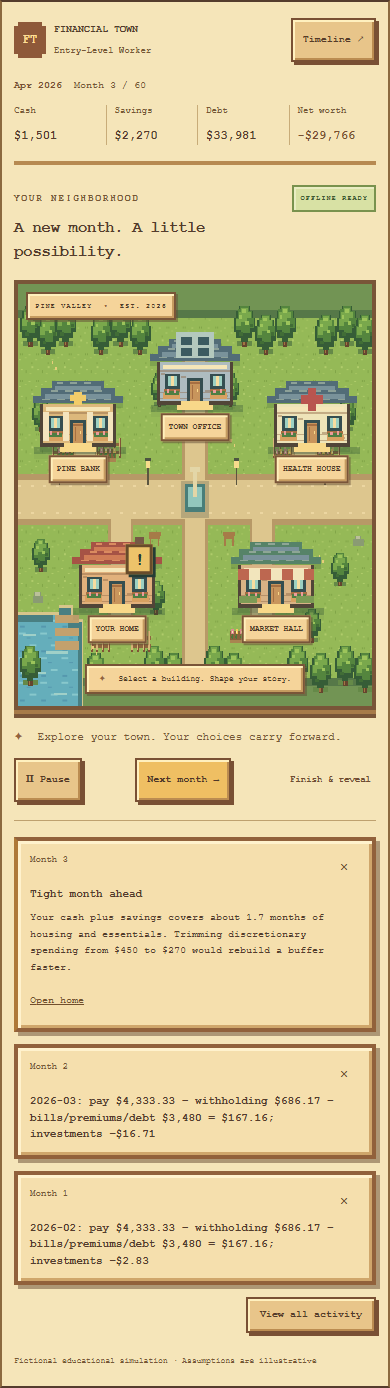
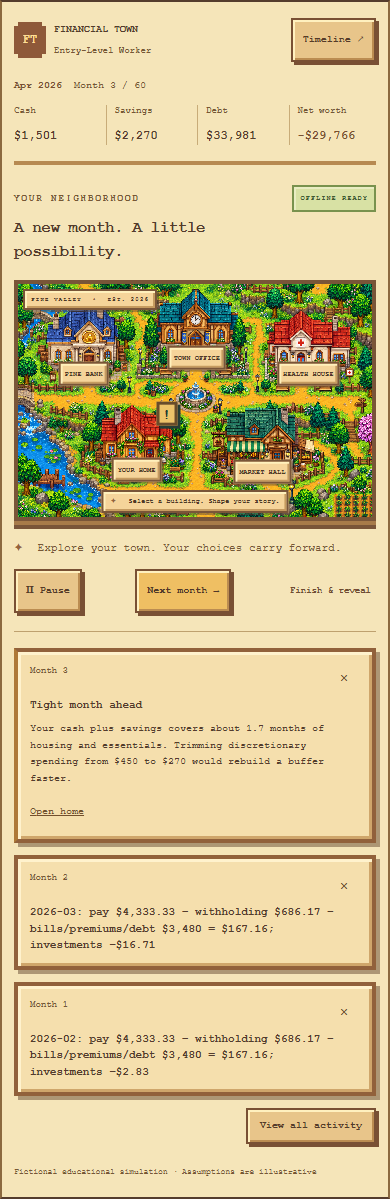
Add detailed reference-inspired pixel-art town backdrop

diff --git a/src/components/town/TownScene.tsx b/src/components/town/TownScene.tsx
@@ -1,67 +1,39 @@
-import type { BuildingId } from '../../types/domain'
+import type { BuildingId } from '../../types/domain'
 import { buildingIds, buildings } from './buildings'
 
-function Tree({ x, y, size = 1 }: { x: number; y: number; size?: number }) {
-  return <g transform={`translate(${x} ${y}) scale(${size})`}>
-    <path fill="#658948" d="M-17 13h34v6h-34z"/>
-    <path fill="#65452e" d="M-5-4H5v24H-5z"/><path fill="#a27742" d="M-3 0h3v18h-3z"/>
-    <path fill="#365d37" d="M-12-28h24v6h8v8h5V3h-7v7H7v4H-8v-4h-12V3h-5v-17h5v-8h8z"/>
-    <path fill="#54853e" d="M-10-28h20v6h8v8h4v12H12v6H-8v-4h-12v-14h4v-10h6z"/>
-    <path fill="#79a84c" d="M-8-26H7v5h7v7H5v5H-8v5h-11v-9h5v-8h6z"/>
-    <path fill="#9cc45b" d="M-6-24h10v4H-6zM-13-17h6v4h-6zM2-10h8v4H2z"/>
-    <path fill="#416d36" d="M-13 3h9v4h-9zM12-7h7v4h-7z"/>
-  </g>
-}
+export const TOWN_ART = '/assets/town-valley-v1.png'
 
-function FlowerBed({ x, y }: { x: number; y: number }) {
-  return <g transform={`translate(${x} ${y})`}>
-    <path fill="#89633c" d="M0 0h48v16H0z"/><path fill="#a98450" d="M0 13h48v5H0z"/>
-    {[5,17,29,41].map((left,i) => <g key={left}><path fill="#4d783a" d={`M${left} 2h3v10h-3zM${left-3} 7h3v3h-3z`}/><path fill={i%2 ? '#f7c65c' : '#df8a91'} d={`M${left-2} -2h7v7h-7z`}/><path fill="#ffedaa" d={`M${left} 0h3v3h-3z`}/></g>)}
-  </g>
-}
-
-function Fence({ x, y, length = 80 }: { x: number; y: number; length?: number }) {
-  return <g transform={`translate(${x} ${y})`}><path fill="#8d663e" d={`M0 1h${length}v5H0zM0 12h${length}v5H0z`}/>{Array.from({length:Math.floor(length/16)+1},(_,i)=><g key={i}><path fill="#805536" d={`M${i*16} -6h6v29h-6z`}/><path fill="#d8b778" d={`M${i*16} -6h4v26h-4z`}/></g>)}</g>
+// Both the map and the card portraits reference the same original raster artwork.
+// Crops use a normalized 1536 x 1024 coordinate space, not separate sprite assets.
+const portraits: Record<BuildingId, [number, number, number, number]> = {
+  bank: [115, 90, 335, 320],
+  office: [605, 20, 355, 330],
+  hospital: [1075, 110, 375, 320],
+  home: [350, 530, 340, 310],
+  market: [875, 535, 395, 320],
 }
 export function BuildingSprite({ building }: { building: BuildingId }) {
-  return <svg viewBox="0 0 120 100" aria-hidden="true" shapeRendering="crispEdges">
-    <path fill="#244433" opacity=".3" d="M8 88h108v9H8z"/><path fill="#514538" d="M15 38h90v50H15z"/><path fill={buildings[building].color} d="M19 38h82v46H19z"/>
-    <path fill={building === 'home' ? '#a65345' : building === 'market' ? '#568368' : '#526c77'} d="M7 37v-8h10v-9h13v-9h60v9h13v9h10v8z"/>
-    <path fill={building === 'home' ? '#d07c56' : '#79929a'} d="M22 27h76v5H22zM33 17h54v5H33z"/><path fill="#f5e6b8" d="M23 42h74v5H23z"/>
-    <g fill={building === 'home' ? '#e79a67' : '#9cafa0'} opacity=".8"><path d="M35 13h8v2h-8zM51 13h8v2h-8zM67 13h8v2h-8zM28 22h9v2h-9zM45 22h9v2h-9zM62 22h9v2h-9zM79 22h9v2h-9zM18 32h9v2h-9zM36 32h9v2h-9zM54 32h9v2h-9zM72 32h9v2h-9zM90 32h9v2h-9z"/></g>
-    <path fill="#8d6848" opacity=".45" d="M19 48h82v2H19zM19 73h82v2H19zM19 80h82v2H19zM20 51h5v2h-5zM44 55h5v2h-5zM72 71h6v2h-6zM94 77h5v2h-5z"/>
-    <path fill="#354e50" d="M25 52h17v18H25zM78 52h17v18H78zM51 57h18v27H51z"/><path fill="#9cd0c2" d="M28 55h11v11H28zM81 55h11v11H81z"/><path fill="#f7dda0" d="M32 55h3v11h-3zM85 55h3v11h-3z"/>
-    <path fill="#c8955c" d="M54 60h12v24H54z"/><path fill="#f8d889" d="M62 70h2v3h-2zM44 84h32v5H44zM39 89h42v5H39z"/>
-    <path fill="#a66f42" d="M54 62h12v2H54zM56 65h2v17h-2zM24 70h19v3H24zM77 70h19v3H77z"/>
-    <path fill="#d8a161" d="M23 74h20v7H23zM77 74h20v7H77z"/><path fill="#4f7e43" d="M25 72h16v5H25zM79 72h16v5H79z"/><path fill="#ed9b9b" d="M27 70h3v4h-3zM35 71h3v4h-3zM81 71h3v4h-3zM89 70h3v4h-3z"/>
-    {building === 'bank' && <g fill="#f3e4be"><path d="M19 48h7v33h-7zM43 48h6v33h-6zM71 48h6v33h-6zM95 48h6v33h-6z"/><path fill="#f2cc69" d="M55 24h10v15H55zM51 28h18v7H51z"/></g>}
-    {building === 'hospital' && <path fill="#b8554f" d="M55 20h10v8h8v10h-8v8H55v-8h-8V28h8z"/>}
-    {building === 'office' && <g><path fill="#b3c8bd" d="M38 3h44v31H38z"/><path fill="#3c5b60" d="M44 9h12v9H44zM64 9h12v9H64zM44 22h12v9H44zM64 22h12v9H64z"/></g>}
-    {building === 'market' && <g><path fill="#f2e5bc" d="M15 43h90v13H15z"/><path fill="#bd6750" d="M15 43h13v13H15zM41 43h13v13H41zM67 43h13v13H67zM93 43h12v13H93z"/><path fill="#7d9b55" d="M17 75h21v8H17zM83 75h22v8H83z"/></g>}
-    {building === 'home' && <path fill="#765945" d="M81 6h10v20H81z"/>}
+  return <svg className="building-portrait" viewBox={portraits[building].join(' ')} aria-hidden="true" shapeRendering="crispEdges">
+    <image href={TOWN_ART} width="1536" height="1024" preserveAspectRatio="none"/>
   </svg>
 }
-export interface TownSceneProps { onBuildingClick: (building: BuildingId) => void; eventBuilding?: BuildingId | null; eventBuildings?: BuildingId[] }
+export interface TownSceneProps {
+  onBuildingClick: (building: BuildingId) => void
+  eventBuilding?: BuildingId | null
+  eventBuildings?: BuildingId[]
+}
 export function TownScene({ onBuildingClick, eventBuilding, eventBuildings = [] }: TownSceneProps) {
-  return <section className="town-scene" aria-label="Financial Town. Choose a building to explore your finances.">
-    <svg className="town-backdrop" viewBox="0 0 1000 600" preserveAspectRatio="none" aria-hidden="true" shapeRendering="crispEdges">
-      <defs><pattern id="grass" width="46" height="38" patternUnits="userSpaceOnUse"><path fill="#95b957" d="M0 0h46v38H0z"/><path stroke="#b0cc6b" strokeWidth="2" d="M8 8h5m16 17h5M3 32h4M39 4h3"/><path stroke="#80a447" strokeWidth="2" d="M22 9v4m17 22v3M12 23v3M6 22v3"/><path fill="#a6c561" d="M18 28h5v2h-5zM33 12h4v2h-4z"/></pattern><pattern id="water" width="60" height="35" patternUnits="userSpaceOnUse"><path fill="#65aebb" d="M0 0h60v35H0z"/><path fill="#88c8cc" d="M4 6h18v3H4zM33 23h20v2H33z"/><path fill="#5598ae" d="M24 12h12v2H24zM5 31h14v2H5z"/></pattern></defs>
-      <path fill="url(#grass)" d="M0 0h1000v600H0z"/><path fill="#729454" d="M0 0h1000v44H0zM0 565h1000v35H0z"/><path stroke="#567848" strokeWidth="12" d="M0 43h1000M0 566h1000"/>
-      <path stroke="#b79967" strokeWidth="72" fill="none" d="M-10 306h1020M500 105v450M190 185v130M810 185v130M290 310v170M690 310v170"/><path stroke="#ddc68e" strokeWidth="56" fill="none" d="M-10 306h1020M500 105v450M190 185v130M810 185v130M290 310v170M690 310v170"/><path stroke="#ecd6a1" strokeWidth="3" strokeDasharray="8 28" d="M0 287h1000M0 325h1000"/>
-      <path fill="#d7c58b" d="M0 466h117v-10h37v20h30v124H0z"/><path fill="#497f82" d="M0 470h115v-10h35v20h30v120H0z"/><path fill="url(#water)" d="M0 480h100v-10h40v20h30v110H0z"/><path stroke="#a0d0c8" strokeWidth="3" d="M15 499h35m30 25h60M8 553h70m25 30h35"/>
-      <path fill="#c3a16d" d="M104 470h67v12h-67zM104 489h67v12h-67zM104 508h67v12h-67z"/><path fill="#b6a77b" d="M460 280h80v52h-80z"/><path fill="#497e79" d="M473 284h54v40h-54z"/><path fill="#92c7bd" d="M479 289h42v28h-42z"/><path fill="#e3d6a7" d="M495 264h10v39h-10zM487 260h26v8h-26z"/>
-      {[35,85,135,235,290,345,640,700,755,870,930,980].map((x,i) => <Tree key={`top-${x}`} x={x} y={65 + i%2*12} size={1.2}/>)}
-      {[35,220,385,440,555,610,790,855,925,980].map((x,i) => <Tree key={`bottom-${x}`} x={x} y={548 + i%2*10} size={1.2}/>)}
-      {([[65,190],[930,190],[65,390],[910,410],[400,155],[600,155],[390,450],[830,490]] as const).map(([x,y]) => <Tree key={`${x}-${y}`} x={x} y={y}/>)}
-      <Fence x={95} y={225} length={70}/><Fence x={220} y={225} length={70}/><Fence x={720} y={225} length={50}/><Fence x={840} y={225} length={70}/><Fence x={205} y={500} length={55}/><Fence x={320} y={500} length={55}/>
-      <FlowerBed x={110} y={235}/><FlowerBed x={230} y={235}/><FlowerBed x={725} y={237}/><FlowerBed x={845} y={237}/><FlowerBed x={600} y={493}/><FlowerBed x={738} y={493}/>
-      <g fill="#8a9b73"><path d="M46 438h18v5h7v10H41v-10h5zM953 358h17v5h7v10h-31v-10h7z"/><path fill="#bbc09a" d="M47 438h14v5H47zM954 358h13v5h-13z"/></g>
-      <g fill="#a67b48"><path d="M369 352h34v6h-34zM371 359h30v4h-30zM373 363h4v10h-4zM395 363h4v10h-4zM579 352h34v6h-34zM581 359h30v4h-30zM583 363h4v10h-4zM605 363h4v10h-4z"/></g>
-      {[115,365,615,865].map(x => <g key={x}><path fill="#5b5540" d={`M${x} 258h5v28h-5z`}/><path fill="#f8dc8c" d={`M${x-4} 250h13v11h-13z`}/><path fill="#4c5541" d={`M${x-5} 247h15v4h-15z`}/></g>)}
-      {([[95,110],[350,370],[600,220],[850,385],[210,515],[780,140]] as const).map(([x,y]) => <g key={`${x}-${y}`} fill="#e6ce79"><path d={`M${x} ${y}h4v4h-4zM${x+10} ${y+8}h4v4h-4z`}/></g>)}
-    </svg>
+  return <section className="town-scene illustrated-town" aria-label="Financial Town. Choose a building to explore your finances.">
+    <img className="town-illustration" src={TOWN_ART} alt="" width="1536" height="1024" fetchPriority="high" draggable={false}/>
     <div className="map-location" aria-hidden="true">PINE VALLEY <span>•</span> EST. 2026</div>
-    {buildingIds.map(id => <button key={id} className={`town-hotspot hotspot-${id}`} style={{ left: `${buildings[id].x}%`, top: `${buildings[id].y}%` }} onClick={() => onBuildingClick(id)} aria-label={`Open ${buildings[id].title}: ${buildings[id].hint}${eventBuilding === id || eventBuildings.includes(id) ? '. Decision waiting' : ''}`}><BuildingSprite building={id}/><span className="building-sign">{buildings[id].title}</span><span className="building-tooltip">{buildings[id].hint} <span aria-hidden="true">↗</span></span>{(eventBuilding === id || eventBuildings.includes(id)) && <span className="event-badge" aria-label="Decision waiting">!</span>}</button>)}
+    {buildingIds.map(id => {
+      const event = eventBuilding === id || eventBuildings.includes(id)
+      return <button key={id} className={`town-hotspot illustrated-hotspot hotspot-${id}`} style={{ left: `${buildings[id].x}%`, top: `${buildings[id].y}%` }} onClick={() => onBuildingClick(id)} aria-label={`Open ${buildings[id].title}: ${buildings[id].hint}${event ? '. Decision waiting' : ''}`}>
+        <span className="building-sign">{buildings[id].title}</span>
+        <span className="building-tooltip">{buildings[id].hint} <span aria-hidden="true">↗</span></span>
+        {event && <span className="event-badge" aria-label="Decision waiting">!</span>}
+      </button>
+    })}
     <div className="map-guide"><span aria-hidden="true">✦</span> Select a building. Shape your story.</div>
   </section>
 }

diff --git a/src/App.tsx b/src/App.tsx
@@ -2,7 +2,7 @@ import { useState, type ReactNode } from 'react'
 import { scenarios } from './data/scenarios'
 import { EventCard, GameClock, NotificationStack, monthLabel, usd } from './components/flow'
 import { selectDebtTotal, selectNetWorth, useGameStore, type FinishPayload } from './stores/useGameStore'
-import { TownScene, BuildingSprite } from './components/town/TownScene'
+import { TownScene, BuildingSprite, TOWN_ART } from './components/town/TownScene'
 import { PanelHost } from './components/town/PanelHost'
 import { GameShell } from './components/layout/GameShell'
 import type { BuildingId } from './types/domain'
@@ -25,7 +25,7 @@ function Town({ panels = {}, renderReveal }: AppProps) {
   const debt = useGameStore(selectDebtTotal)
   if (!store.game || !store.config) return <main className="town-landing">
     <header className="landing-nav"><a className="wordmark" href="#">FT<span>FINANCIAL TOWN</span></a><span className="offline-tag">OFFLINE READY</span></header>
-    <section className="landing-hero"><span className="eyebrow">A SMALL TOWN OF BIG POSSIBILITIES</span><h1>Your money.<br/>Your little world.</h1><p>Build a life, make a few choices, and discover how they add up. One month at a time.</p><a className="pixel-button pixel-button--gold" href="#starting-lives">Choose your starting life ↓</a><div className="hero-village" aria-hidden="true"><BuildingSprite building="bank"/><BuildingSprite building="home"/><BuildingSprite building="market"/></div></section>
+    <section className="landing-hero"><span className="eyebrow">A SMALL TOWN OF BIG POSSIBILITIES</span><h1>Your money.<br/>Your little world.</h1><p>Build a life, make a few choices, and discover how they add up. One month at a time.</p><a className="pixel-button pixel-button--gold" href="#starting-lives">Choose your starting life ↓</a><div className="hero-village illustrated-hero" aria-hidden="true"><img src={TOWN_ART} alt="" width="1536" height="1024"/></div></section>
     <section id="starting-lives" className="starting-lives"><div className="section-heading"><div><span className="eyebrow">CHAPTER ONE</span><h2>Every story starts somewhere.</h2></div><span>Four lives. Plenty of possibilities.</span></div><div className="life-grid">{scenarios.map((s,i) => <button className="life-card pixel-panel" key={s.scenarioId} onClick={() => store.startGame(s)}><span className="life-number">0{i+1}</span><BuildingSprite building={(['home','office','market','home'] as BuildingId[])[i] ?? 'home'}/><h3>{s.title}</h3><p>{s.description}</p><span className="life-start">Start this story <span>→</span></span></button>)}</div></section>
     <section className="personalization pixel-panel"><div><span className="eyebrow">OR, BRING YOUR OWN QUESTION</span><h2>Explore your situation.</h2><p>Describe a financial question. The scenario generator maps it to existing game mechanics, with an offline fallback.</p><small>Leave out account numbers and sensitive details. Your question is sent to the AI gateway when available; offline mode uses a local fallback.</small></div><form onSubmit={async e => { e.preventDefault(); setFormError(''); try { const result = await store.generatePersonalized(prompt); store.startGame(result.config) } catch (error) { setFormError(error instanceof Error ? error.message : 'Could not prepare your scenario.') } }}><label htmlFor="situation">What would you like to explore?</label><textarea id="situation" value={prompt} onChange={e => setPrompt(e.target.value)} placeholder="How can I balance paying off debt and building savings?" required maxLength={1000}/><button className="pixel-button pixel-button--gold" disabled={store.personalizationLoading}>{store.personalizationLoading ? 'Preparing…' : 'Build my scenario →'}</button>{(formError || store.personalizationError) && <p role="alert">{formError || store.personalizationError}</p>}</form></section>
     <footer className="simulation-footer">Fictional educational simulation · Illustrative assumptions · Not financial advice</footer>

diff --git a/src/styles/illustrated-town.css b/src/styles/illustrated-town.css
@@ -1,0 +1,66 @@
+/* The raster map and hit areas share one coordinate system at every viewport. */
+.illustrated-town {
+  height: auto;
+  aspect-ratio: 3 / 2;
+  min-height: 0;
+  background: #95b957;
+}
+.town-illustration {
+  display: block;
+  width: 100%;
+  height: 100%;
+  image-rendering: pixelated;
+  user-select: none;
+  pointer-events: none;
+}
+.illustrated-hotspot {
+  width: 22%;
+  height: 32%;
+  padding: 0;
+  border: 2px solid transparent;
+  background: transparent;
+}
+.illustrated-hotspot:hover, .illustrated-hotspot:focus-visible {
+  border-color: #fff0b9;
+  background: #ffdf7520;
+  box-shadow: inset 0 0 0 2px #6d4b32;
+  outline: none;
+}
+.illustrated-hotspot .building-sign {
+  position: absolute;
+  bottom: -14px;
+  left: 50%;
+  transform: translateX(-50%);
+  margin: 0;
+}
+.illustrated-hotspot .building-tooltip { top: calc(100% + 18px); }
+.illustrated-hotspot .event-badge { top: 0; right: 0; }
+.building-portrait { border: 3px solid #9b703f; box-shadow: 3px 3px 0 #c2a16c; }
+.hero-village.illustrated-hero {
+  bottom: 30px;
+  width: 45%;
+  border: 4px solid #795538;
+  background: #95b957;
+  box-shadow: 4px 4px 0 #79553880;
+  padding: 0;
+}
+.illustrated-hero img { display: block; width: 100%; image-rendering: pixelated; }
+@media(max-width:850px) {
+  .hero-village.illustrated-hero { bottom: 65px; width: 42%; }
+}
+@media(max-width:540px) {
+  .illustrated-town { height: auto; aspect-ratio: 3 / 2; }
+  .illustrated-hotspot { width: 24%; height: 32%; min-height: 44px; }
+  .illustrated-hotspot.hotspot-bank { left: 18.5%!important; top: 25%!important; }
+  .illustrated-hotspot.hotspot-office { left: 50.5%!important; top: 18%!important; }
+  .illustrated-hotspot.hotspot-hospital { left: 82%!important; top: 25%!important; }
+  .illustrated-hotspot.hotspot-home { left: 33.5%!important; top: 66%!important; }
+  .illustrated-hotspot.hotspot-market { left: 69%!important; top: 67%!important; }
+  .illustrated-hotspot .building-sign { font-size: 7px; padding: 5px 4px; bottom: -9px; }
+  .illustrated-hotspot .building-tooltip { top: calc(100% + 12px); }
+  .illustrated-town .map-location { font-size: 6px; padding: 4px 6px; top: 5px; left: 5px; }
+  .illustrated-town .map-guide { font-size: 7px; padding: 4px 7px; bottom: 4px; }
+  .illustrated-hotspot .event-badge { width: 21px; height: 24px; font-size: 14px; }
+  .hero-village.illustrated-hero { width: 78%; max-width: 280px; right: 11%; bottom: 14px; }
+  .town-landing .landing-hero { padding-bottom: 220px; }
+}

diff --git a/tests/town.browser.ts b/tests/town.browser.ts
@@ -12,6 +12,9 @@ test('town navigation, focus, month tick, history and finish', async ({ page }, 
   for (const name of ['Pine Bank', 'Town Office', 'Health House', 'Your Home', 'Market Hall']) {
     const button = page.getByRole('button', { name: new RegExp(`Open ${name}:`) })
     await button.scrollIntoViewIfNeeded()
+    await button.click()
+    await expect(page.getByRole('dialog', { name })).toBeVisible()
+    await page.keyboard.press('Escape')
     await button.focus()
     await page.keyboard.press('Enter')
     const dialog = page.getByRole('dialog', { name })
@@ -36,6 +39,7 @@ test('town navigation, focus, month tick, history and finish', async ({ page }, 
   await expect(page.getByRole('dialog', { name: 'Town activity' })).toBeVisible()
   await page.getByRole('button', { name: 'Close panel' }).click()
   await expect(page.locator('body')).toHaveJSProperty('scrollWidth', await page.evaluate(() => innerWidth))
+  await expect(page.locator('.activity-area .notice')).toHaveCount(3)
   await page.screenshot({ path: `docs/screenshots/${testInfo.project.name}-town.png`, fullPage: true })
   await page.getByRole('button', { name: /Open Pine Bank/ }).click()
   await page.screenshot({ path: `docs/screenshots/${testInfo.project.name}-panel.png`, fullPage: true })

diff --git a/src/components/town/buildings.ts b/src/components/town/buildings.ts
@@ -1,9 +1,9 @@
 import type { BuildingId } from '../../types/domain'
 export const buildings: Record<BuildingId, { title: string; hint: string; color: string; x: number; y: number }> = {
-  bank: { title: 'Pine Bank', hint: 'Savings & debt', color: '#dcb87c', x: 19, y: 32 },
-  office: { title: 'Town Office', hint: 'Income & career', color: '#aebcc0', x: 50, y: 24 },
-  hospital: { title: 'Health House', hint: 'Hospital / Insurance', color: '#eee4b9', x: 81, y: 32 },
-  home: { title: 'Your Home', hint: 'Rent & everyday costs', color: '#e1b17c', x: 29, y: 73 },
-  market: { title: 'Market Hall', hint: 'Investments & allocation', color: '#d9b385', x: 69, y: 73 },
+  bank: { title: 'Pine Bank', hint: 'Savings & debt', color: '#dcb87c', x: 18.5, y: 25 },
+  office: { title: 'Town Office', hint: 'Income & career', color: '#aebcc0', x: 50.5, y: 18 },
+  hospital: { title: 'Health House', hint: 'Hospital / Insurance', color: '#eee4b9', x: 82, y: 25 },
+  home: { title: 'Your Home', hint: 'Rent & everyday costs', color: '#e1b17c', x: 33.5, y: 66 },
+  market: { title: 'Market Hall', hint: 'Investments & allocation', color: '#d9b385', x: 69, y: 67 },
 }
 export const buildingIds = Object.keys(buildings) as BuildingId[]

diff --git a/src/styles/index.css b/src/styles/index.css
@@ -2,6 +2,7 @@
 @import './pixel-tokens.css';
 @import './town.css';
 @import './valley.css';
+@import './illustrated-town.css';
 
 html, body, #root { min-height: 100%; }
 .pixel-sprite, .building-icon { image-rendering: pixelated; }

diff --git a/public/assets/town-valley-v1.prompt.md b/public/assets/town-valley-v1.prompt.md
@@ -1,0 +1,7 @@
+# Financial Town backdrop
+
+Generated with the built-in imagegen tool. The user-supplied farm screenshot was a style reference only; it is not redistributed. The generated image is original project artwork, not an extracted game asset. The map is 1536 x 1024. Hotspots and portrait viewports were aligned to the generated output after visual inspection.
+
+## Generation prompt
+
+Use case: stylized-concept. Asset type: original production game background for Financial Town, a static 2D point-and-click personal-finance town. Use the attached farm screenshot ONLY as an art-style reference: detailed handcrafted 16-bit pixel art, tiny crisp square pixels, saturated leaf greens, golden ochre dirt paths, rich reddish timber and tile roofs, warm sunny daylight, intricate pixel shading and textures. Do not copy its composition or characters. Generate a WIDE landscape 3:2 map, ideally 1536x1024. Orthographic overhead RPG camera looking slightly down onto front faces and roofs, like a cozy farming life game, NOT isometric, NOT vector, no smoothing, no blur, no painterly brushwork. Compose exactly FIVE separate distinct buildings with ample space, positioned precisely as follows using normalized image coordinates. Upper-left BANK rustic pale stone/timber bank with blue slate roof and small coin crest, building footprint centered x=19%, y=30%, spanning x=10..28%, y=17..42%. Upper-middle OFFICE civic wooden town hall with teal tiled roof and clock, centered x=50%, y=23%, spanning x=41..59%, y=10..35%. Upper-right HOSPITAL cozy cream clinic with red cross and red tiled roof, centered x=81%, y=30%, spanning x=72..90%, y=17..42%. Lower-left HOME warm orange timber cottage red terracotta roof and chimney flower boxes, centered x=29%, y=71%, spanning x=20..38%, y=58..84%. Lower-right MARKET rustic store timber and stone with green awning and produce crates, centered x=69%, y=71%, spanning x=60..78%, y=58..84%. Golden dirt lane horizontally at y=48..55%, connecting narrow garden paths to each front door. Small stone fountain in center lane at (50%,51%). Lush detailed grass and flowers, wooden fences, shrubs, full leafy trees around outer edges with individually shaded leaf clusters, a small blue pond in bottom-left corner (x=0..14%, y=80..100%), benches and lampposts. Keep all building footprints unobstructed and visually unmistakable; landscape fills canvas edge-to-edge. No UI, no people, no text, no labels, no logos, no watermarks. Beautiful dense coherent authentic pixel art, not simplistic block shapes. Keep exact building layout as specified for interactive hotspot alignment.

diff --git a/docs/TOWN_HANDOFF.md b/docs/TOWN_HANDOFF.md
@@ -15,9 +15,9 @@ The integration retains main's full financial engine, server-side AI gateway, Vi
 
 ## Design system
 
-Original SVG art uses crisp edges and a fixed pixel grid. The cozy valley theme in `styles/valley.css` gives all panels, HUD, controls, notifications and graph defaults warm parchment surfaces, wooden borders, square corners, hard shadows, monospace text, and `--pixel: 4px`. Buildings have roof shingles, wall texture and flower boxes; the map includes layered foliage, fences, flower beds, benches and patterned water. No font download is needed. Graph colors: `--chart-grid`, `--chart-observed`, `--chart-positive`, `--chart-negative`. Future Recharts surfaces inherit crisp edges and monospace text; Agent 5 should disable chart animation for reduced motion and avoid smoothing pixel-styled lines.
+The original raster backdrop `public/assets/town-valley-v1.png` was generated with the built-in imagegen tool using the user's farm screenshot as a style reference. The full prompt is beside it in `town-valley-v1.prompt.md`. No game assets or reference screenshots are redistributed. The 1536 x 1024 art is shown at its 3:2 aspect ratio without cropping or stretching; hotspot coordinates in `buildings.ts` match the inspected output. `BuildingSprite` uses SVG viewports to display building portraits from this same image. The cozy valley theme in `styles/valley.css` gives all panels, HUD, controls, notifications and graph defaults warm parchment surfaces, wooden borders, square corners, hard shadows, monospace text, and `--pixel: 4px`. No font download is needed. Graph colors: `--chart-grid`, `--chart-observed`, `--chart-positive`, `--chart-negative`. Future Recharts surfaces inherit crisp edges and monospace text; Agent 5 should disable chart animation for reduced motion and avoid smoothing pixel-styled lines.
 
-Map is 380–620px high on desktop, 430px on narrow phones; the page scrolls vertically when required. All interactive controls retain visible focus. Motion is subtle and disabled by `prefers-reduced-motion`.
+Map height follows the fixed 3:2 artwork ratio at every viewport, with a minimum 44px hotspot height on phones. The page scrolls vertically when required. `styles/illustrated-town.css` preserves the same map coordinates on desktop and mobile. All interactive controls retain visible focus. Motion is subtle and disabled by `prefers-reduced-motion`.
 
 ## Local commands
 
